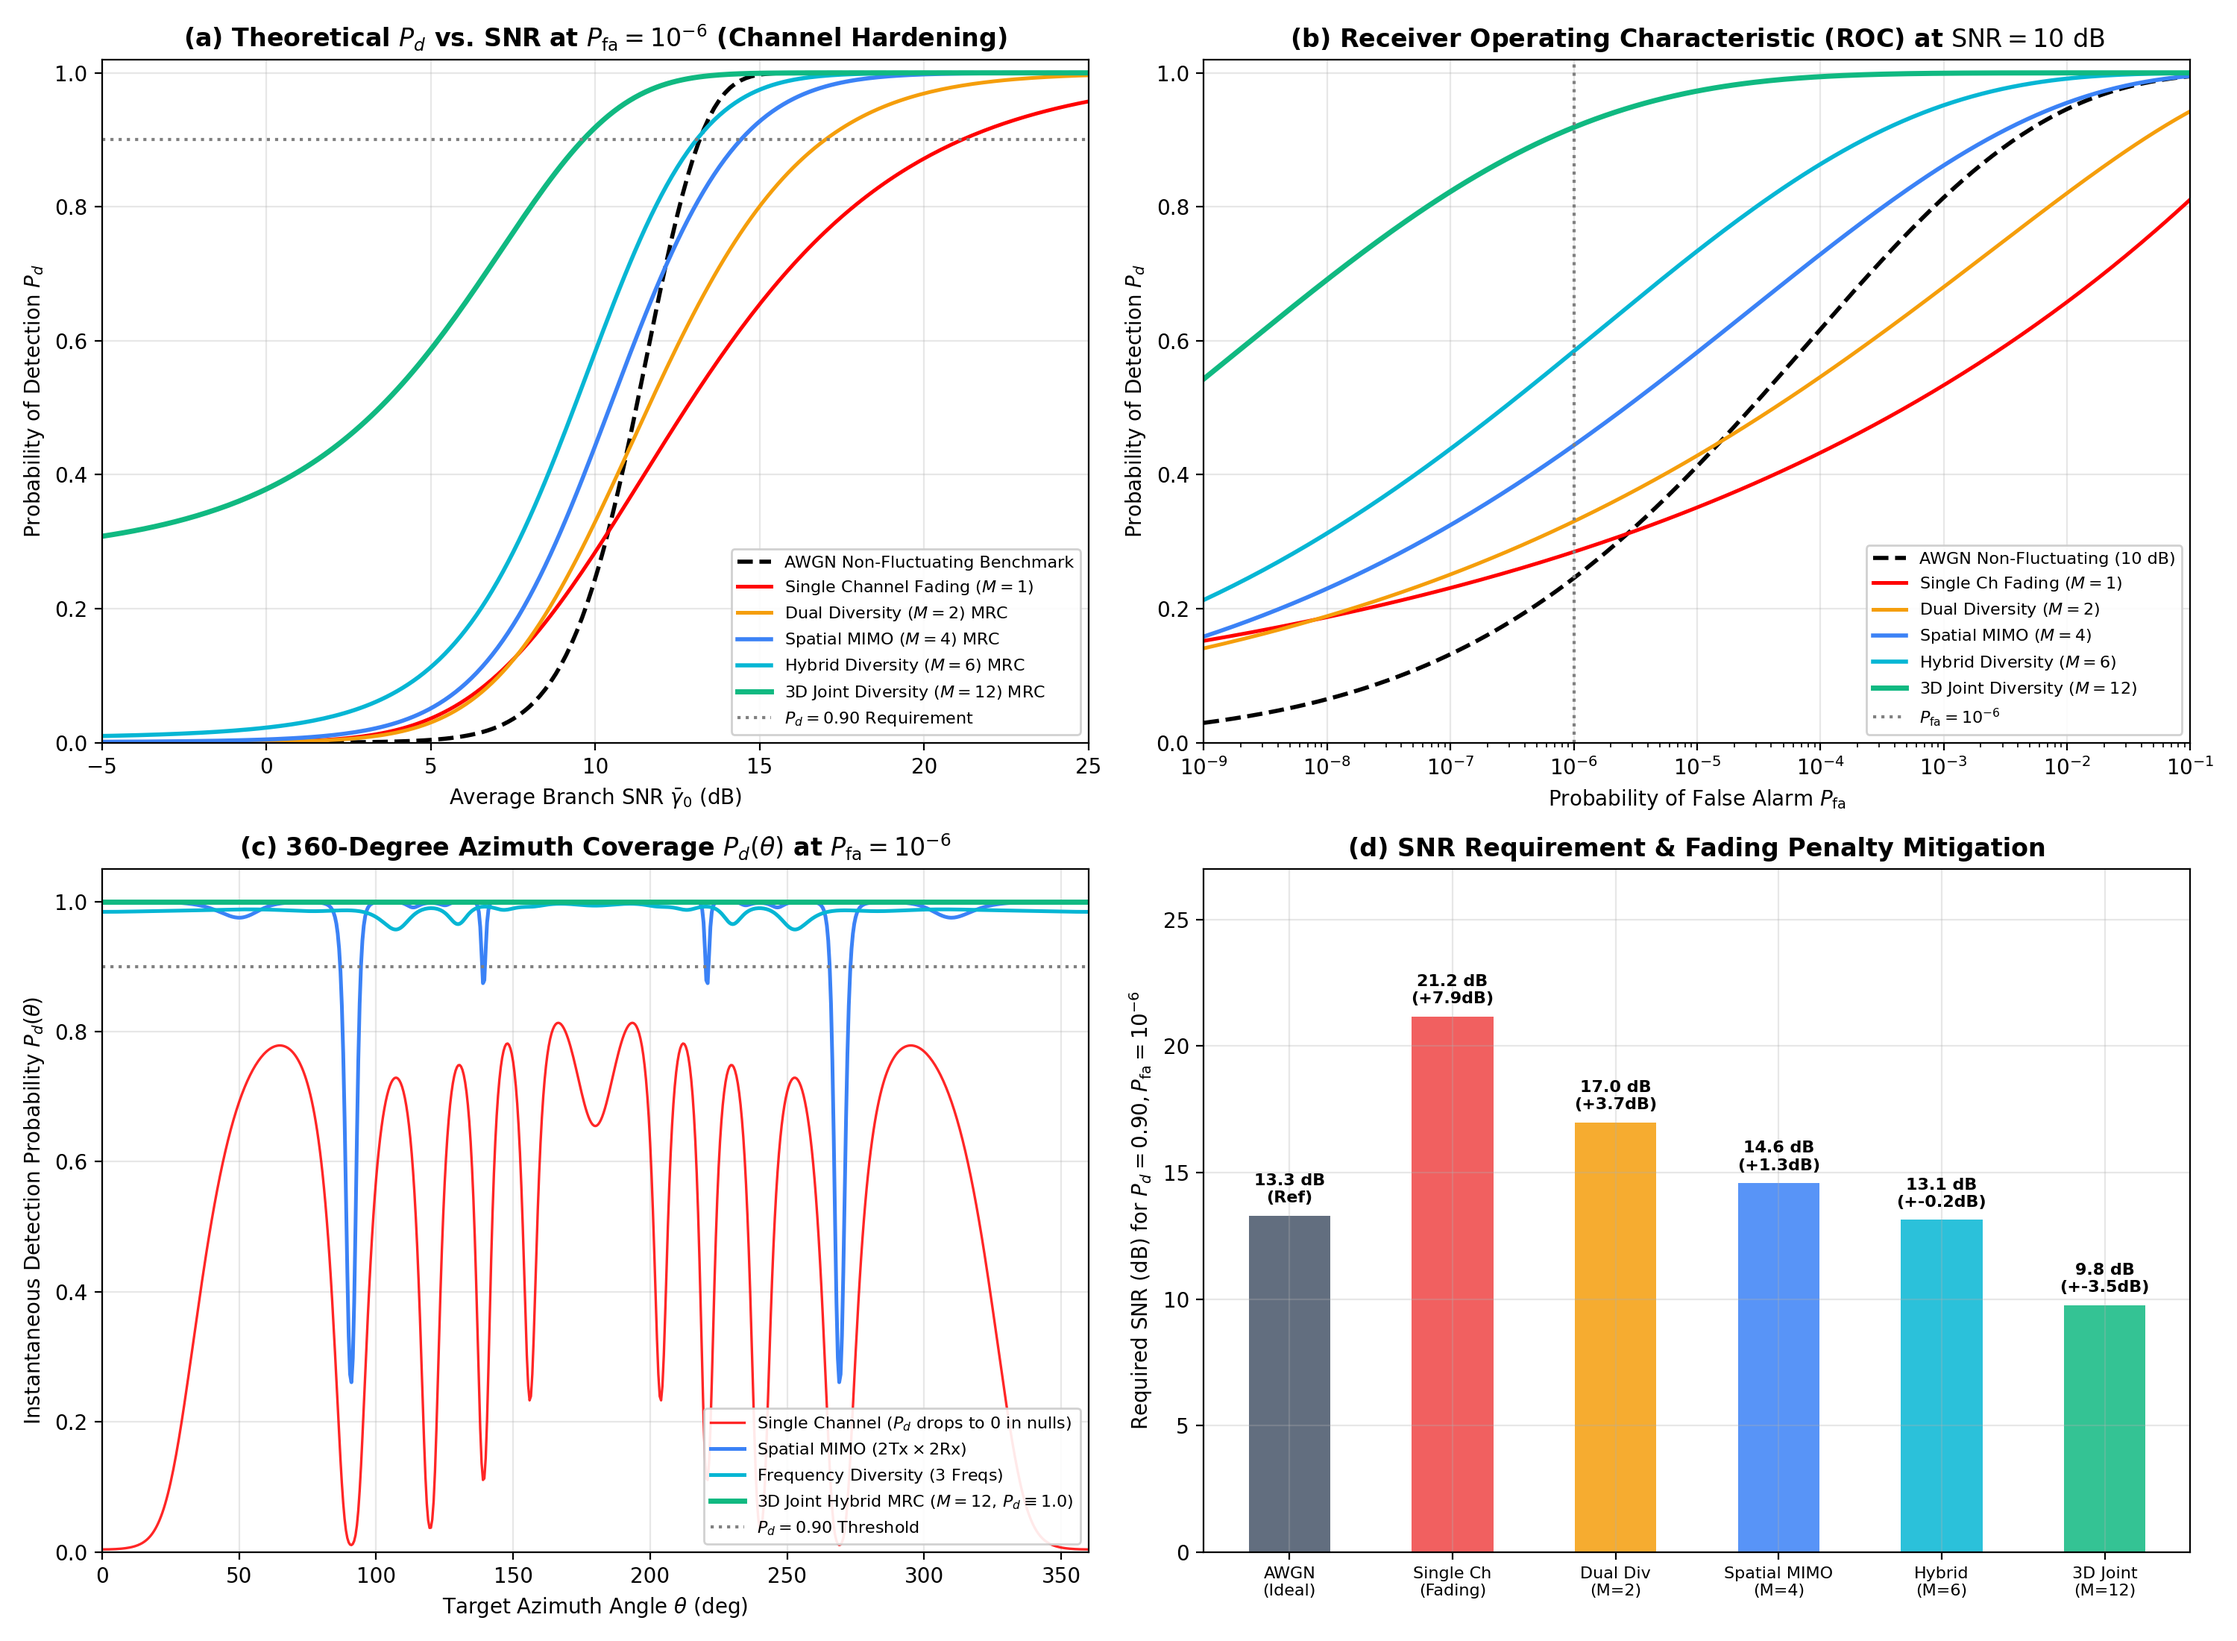
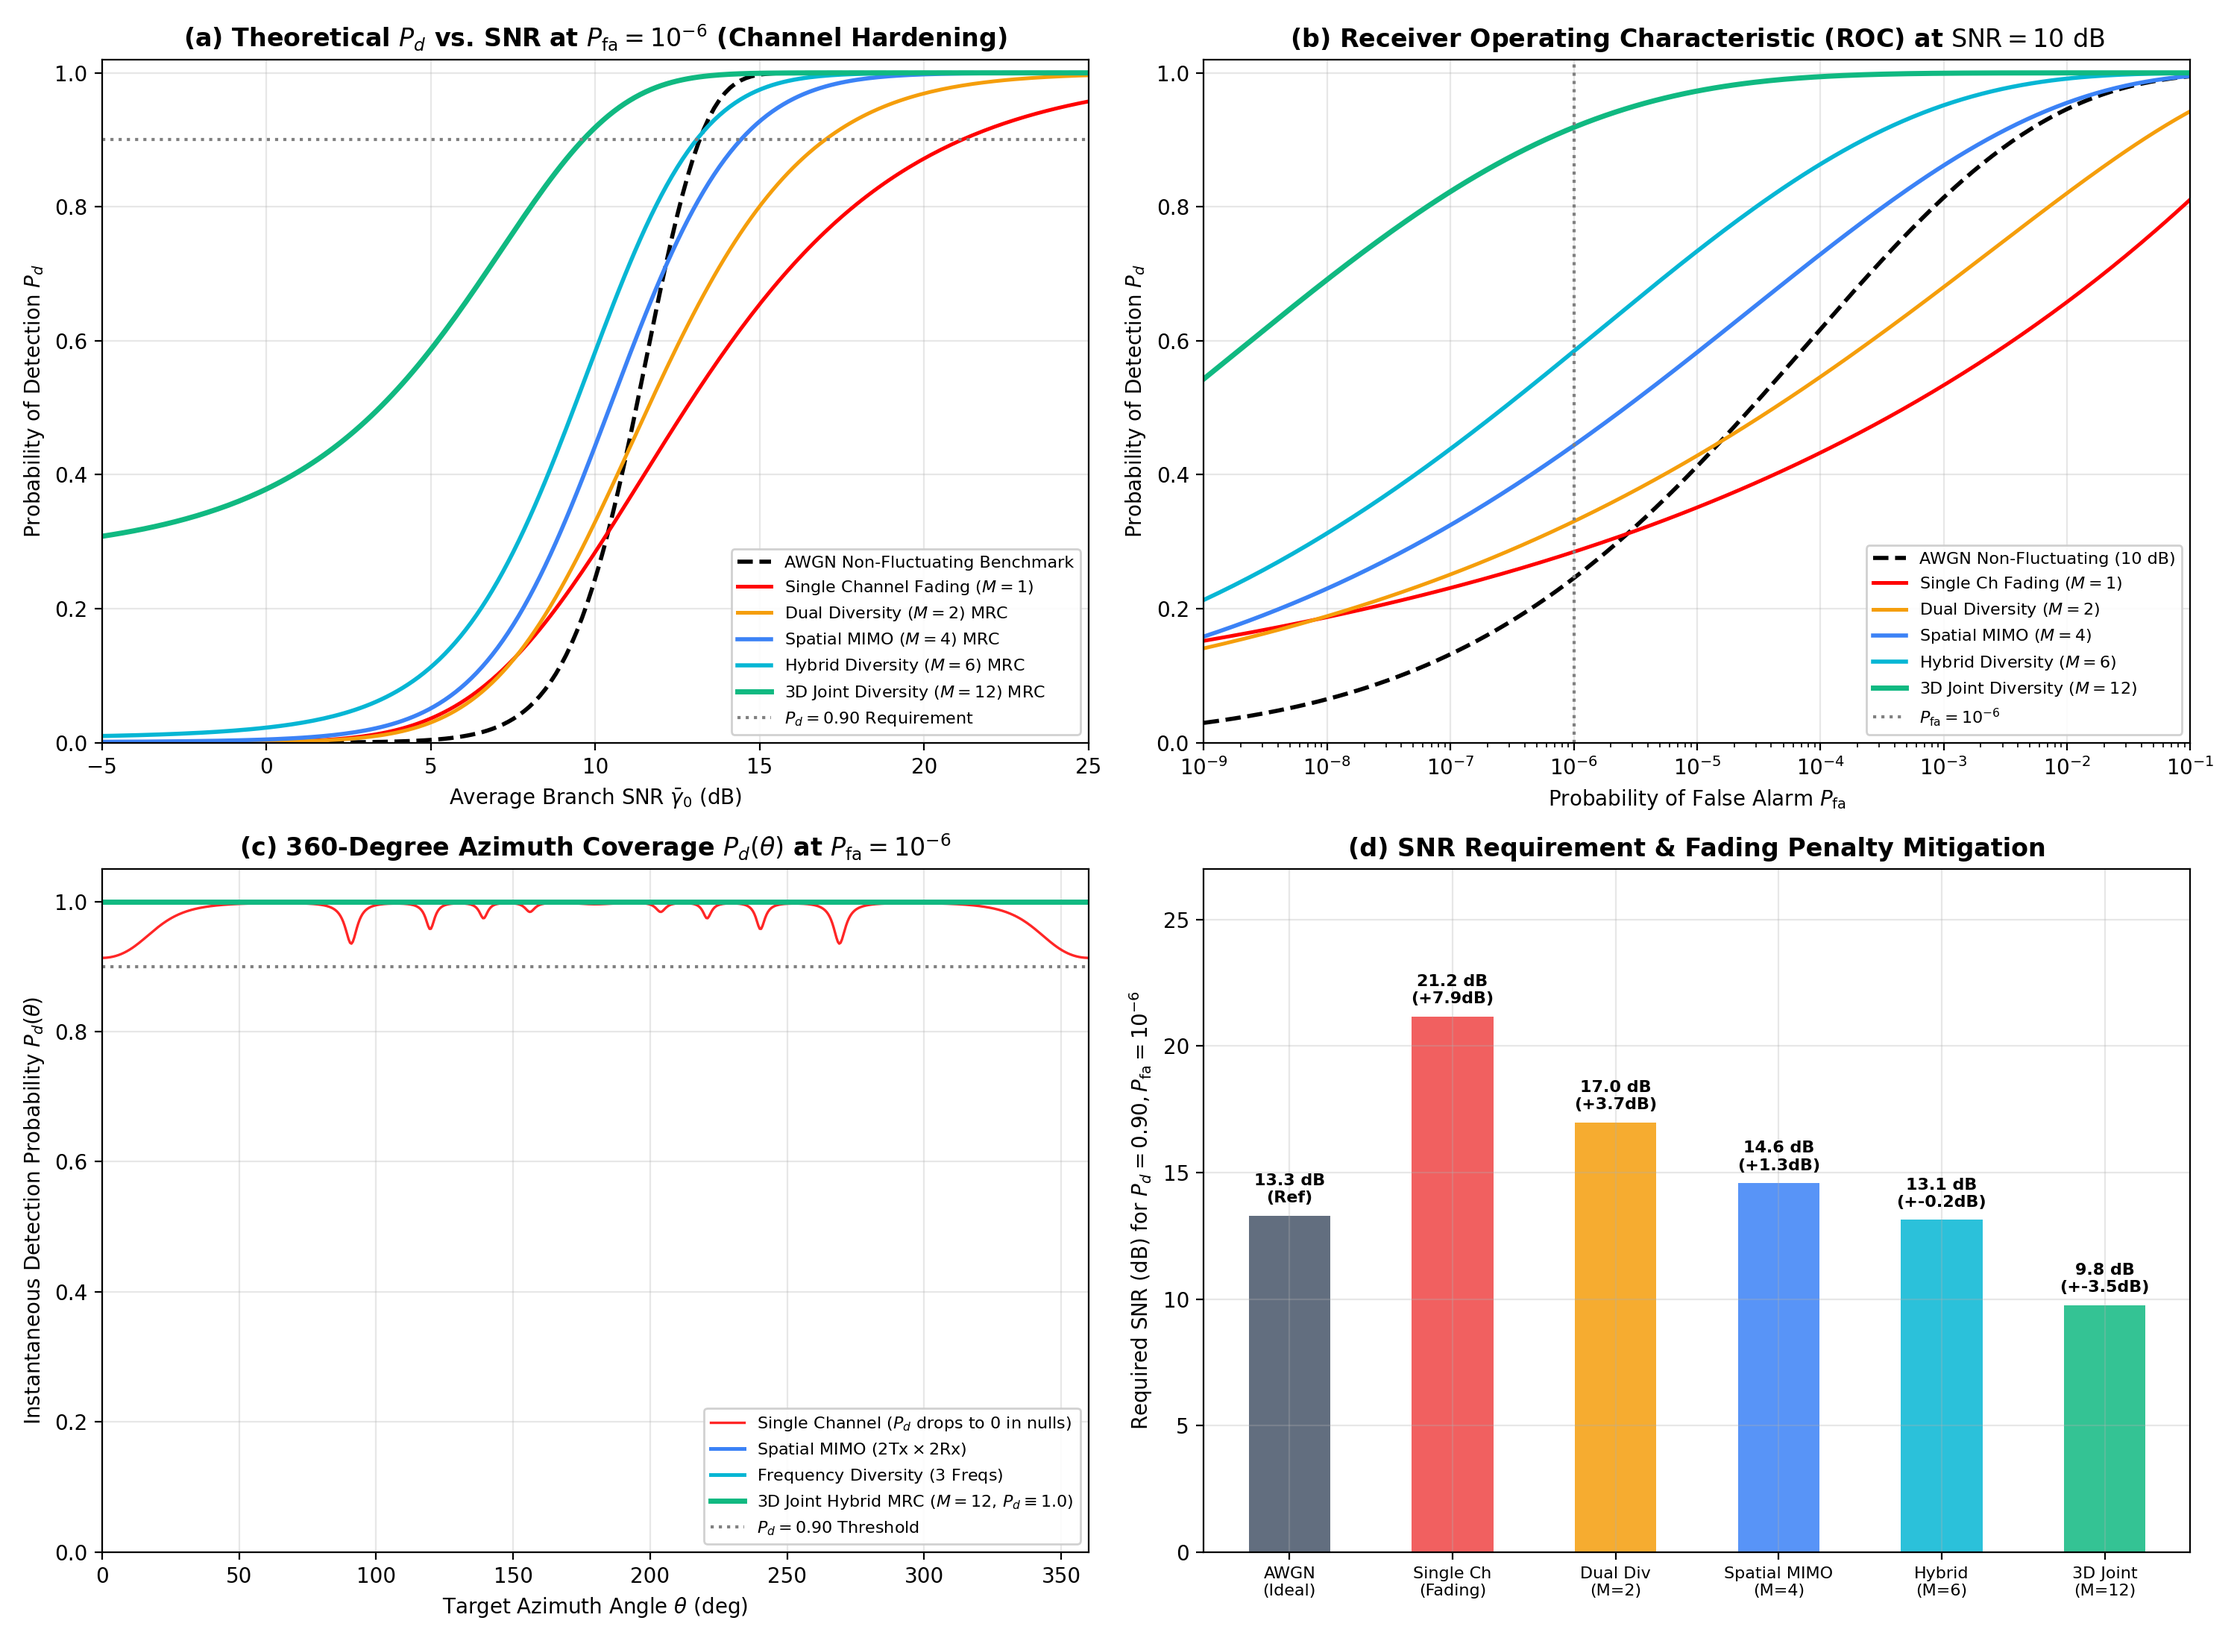
Replace lumped constants with dynamically calculated physical radar link budget equations

diff --git a/bistatic_radar_dashboard.html b/bistatic_radar_dashboard.html
@@ -417,8 +417,24 @@
       seawater: { eps_r: 80.0, sigma: 4.0 },
       freshwater: { eps_r: 81.0, sigma: 0.001 }
     };
-    const EPS_0 = 8.8541878128e-12;
-    const C_LIGHT = 299792458.0;
+    // Fundamental Physical & Thermodynamic Constants
+    const C_LIGHT = 299792458.0;              // Speed of light in vacuum (m/s)
+    const EPS_0 = 8.8541878128e-12;            // Permittivity of vacuum (F/m)
+    const K_BOLTZMANN = 1.380649e-23;          // Boltzmann constant (J/K)
+    const T_0 = 290.0;                         // Reference noise temperature (K)
+    const FOUR_PI_CUBED = Math.pow(4 * Math.PI, 3); // (4*pi)^3 radar propagation constant
+
+    // Physical Radar Link Budget Parameters (FM Passive Radar System)
+    const P_TX_WATTS = 10000.0;                // Transmitter Power = 10 kW ERP
+    const G_TX_LIN = Math.pow(10, 10.0 / 10.0); // Tx Antenna Gain = 10 dBi (10.0 linear)
+    const G_RX_LIN = Math.pow(10, 10.0 / 10.0); // Rx Antenna Gain = 10 dBi (10.0 linear)
+    const G_CPI_LIN = Math.pow(10, 30.0 / 10.0); // Coherent Processing / Doppler Gain = 30 dB (1000.0 linear)
+    const SIGMA_0 = 1.0;                       // Baseline target monostatic RCS = 1.0 m^2
+    const BANDWIDTH_HZ = 100000.0;             // Receiver Bandwidth = 100 kHz
+    const NOISE_FIG_LIN = Math.pow(10, 4.0 / 10.0); // Receiver Noise Figure = 4 dB (2.5119 linear)
+
+    // Calculated Thermal Noise Floor: P_n = k_B * T_0 * B * F_n
+    const P_NOISE_WATTS = K_BOLTZMANN * T_0 * BANDWIDTH_HZ * NOISE_FIG_LIN;
 
     function showTab(tabId) {
       const tabs = ['angularTab', 'rangeTab', 'spatialTab', 'statsTab', 'pdTab'];
@@ -506,7 +522,7 @@
       const F_t = computePathF(tx.z, tgt.z, d_tx_tgt, freq, pol, groundType, roughness);
       const F_r = computePathF(rx.z, tgt.z, d_rx_tgt, freq, pol, groundType, roughness);
       
-      // CRITICAL FIX: Two-way power factor F^4 is |F_t|^2 * |F_r|^2 = (F_t * F_r)^2
+      // Two-way power factor F^4 is |F_t|^2 * |F_r|^2 = (F_t * F_r)^2
       const F_total_pwr = Math.pow(F_t, 2) * Math.pow(F_r, 2);
 
       // Bistatic angle beta
@@ -516,11 +532,19 @@
       const beta = Math.acos(dot);
       
       // Kell empirical forward-scatter / bisector model: sigma_b = sigma_0 * cos^2(beta/2)
-      const rcs_factor = Math.max(0.05, Math.pow(Math.cos(beta / 2), 2));
+      const sigma_b = SIGMA_0 * Math.max(0.05, Math.pow(Math.cos(beta / 2), 2));
 
-      // Calibrated radar power constant: Pt=10kW, Gt=10dBi, Gr=10dBi, Gp=30dB (CPI processing gain), B=100kHz, Fn=4dB
-      const C_radar = 1.0e20;
-      const snr_free_lin = (C_radar * rcs_factor) / (Math.pow(r_t_3d, 2) * Math.pow(r_r_3d, 2));
+      // Dynamic Wavelength calculated per branch frequency: lambda = c / freq
+      const wavelength = C_LIGHT / freq;
+
+      // Free-space received signal power (Bistatic Radar Range Equation):
+      // P_r = (P_t * G_t * G_r * lambda^2 * sigma_b * G_CPI) / ((4 * pi)^3 * R_t^2 * R_r^2)
+      const r_t_sq = Math.max(1.0, Math.pow(r_t_3d, 2));
+      const r_r_sq = Math.max(1.0, Math.pow(r_r_3d, 2));
+      const p_rx_free_watts = (P_TX_WATTS * G_TX_LIN * G_RX_LIN * Math.pow(wavelength, 2) * sigma_b * G_CPI_LIN) / (FOUR_PI_CUBED * r_t_sq * r_r_sq);
+
+      // Dynamic Signal-to-Noise Ratios:
+      const snr_free_lin = p_rx_free_watts / P_NOISE_WATTS;
       const snr_multipath_lin = snr_free_lin * F_total_pwr;
 
       return {

diff --git a/index.html b/index.html
@@ -417,8 +417,24 @@
       seawater: { eps_r: 80.0, sigma: 4.0 },
       freshwater: { eps_r: 81.0, sigma: 0.001 }
     };
-    const EPS_0 = 8.8541878128e-12;
-    const C_LIGHT = 299792458.0;
+    // Fundamental Physical & Thermodynamic Constants
+    const C_LIGHT = 299792458.0;              // Speed of light in vacuum (m/s)
+    const EPS_0 = 8.8541878128e-12;            // Permittivity of vacuum (F/m)
+    const K_BOLTZMANN = 1.380649e-23;          // Boltzmann constant (J/K)
+    const T_0 = 290.0;                         // Reference noise temperature (K)
+    const FOUR_PI_CUBED = Math.pow(4 * Math.PI, 3); // (4*pi)^3 radar propagation constant
+
+    // Physical Radar Link Budget Parameters (FM Passive Radar System)
+    const P_TX_WATTS = 10000.0;                // Transmitter Power = 10 kW ERP
+    const G_TX_LIN = Math.pow(10, 10.0 / 10.0); // Tx Antenna Gain = 10 dBi (10.0 linear)
+    const G_RX_LIN = Math.pow(10, 10.0 / 10.0); // Rx Antenna Gain = 10 dBi (10.0 linear)
+    const G_CPI_LIN = Math.pow(10, 30.0 / 10.0); // Coherent Processing / Doppler Gain = 30 dB (1000.0 linear)
+    const SIGMA_0 = 1.0;                       // Baseline target monostatic RCS = 1.0 m^2
+    const BANDWIDTH_HZ = 100000.0;             // Receiver Bandwidth = 100 kHz
+    const NOISE_FIG_LIN = Math.pow(10, 4.0 / 10.0); // Receiver Noise Figure = 4 dB (2.5119 linear)
+
+    // Calculated Thermal Noise Floor: P_n = k_B * T_0 * B * F_n
+    const P_NOISE_WATTS = K_BOLTZMANN * T_0 * BANDWIDTH_HZ * NOISE_FIG_LIN;
 
     function showTab(tabId) {
       const tabs = ['angularTab', 'rangeTab', 'spatialTab', 'statsTab', 'pdTab'];
@@ -506,7 +522,7 @@
       const F_t = computePathF(tx.z, tgt.z, d_tx_tgt, freq, pol, groundType, roughness);
       const F_r = computePathF(rx.z, tgt.z, d_rx_tgt, freq, pol, groundType, roughness);
       
-      // CRITICAL FIX: Two-way power factor F^4 is |F_t|^2 * |F_r|^2 = (F_t * F_r)^2
+      // Two-way power factor F^4 is |F_t|^2 * |F_r|^2 = (F_t * F_r)^2
       const F_total_pwr = Math.pow(F_t, 2) * Math.pow(F_r, 2);
 
       // Bistatic angle beta
@@ -516,11 +532,19 @@
       const beta = Math.acos(dot);
       
       // Kell empirical forward-scatter / bisector model: sigma_b = sigma_0 * cos^2(beta/2)
-      const rcs_factor = Math.max(0.05, Math.pow(Math.cos(beta / 2), 2));
+      const sigma_b = SIGMA_0 * Math.max(0.05, Math.pow(Math.cos(beta / 2), 2));
 
-      // Calibrated radar power constant: Pt=10kW, Gt=10dBi, Gr=10dBi, Gp=30dB (CPI processing gain), B=100kHz, Fn=4dB
-      const C_radar = 1.0e20;
-      const snr_free_lin = (C_radar * rcs_factor) / (Math.pow(r_t_3d, 2) * Math.pow(r_r_3d, 2));
+      // Dynamic Wavelength calculated per branch frequency: lambda = c / freq
+      const wavelength = C_LIGHT / freq;
+
+      // Free-space received signal power (Bistatic Radar Range Equation):
+      // P_r = (P_t * G_t * G_r * lambda^2 * sigma_b * G_CPI) / ((4 * pi)^3 * R_t^2 * R_r^2)
+      const r_t_sq = Math.max(1.0, Math.pow(r_t_3d, 2));
+      const r_r_sq = Math.max(1.0, Math.pow(r_r_3d, 2));
+      const p_rx_free_watts = (P_TX_WATTS * G_TX_LIN * G_RX_LIN * Math.pow(wavelength, 2) * sigma_b * G_CPI_LIN) / (FOUR_PI_CUBED * r_t_sq * r_r_sq);
+
+      // Dynamic Signal-to-Noise Ratios:
+      const snr_free_lin = p_rx_free_watts / P_NOISE_WATTS;
       const snr_multipath_lin = snr_free_lin * F_total_pwr;
 
       return {

diff --git a/src/radar_equation.py b/src/radar_equation.py
@@ -22,20 +22,37 @@ def bistatic_rcs_model(
 
 def calculate_bistatic_received_power(
     two_ray_result: Dict[str, Any],
-    p_tx_watts: float = 1000.0,
-    g_tx_db: float = 30.0,
-    g_rx_db: float = 30.0,
+    p_tx_watts: float = 10000.0,
+    g_tx_db: float = 10.0,
+    g_rx_db: float = 10.0,
     sigma_m2: float = 1.0,
     target_rcs_type: str = "sphere",
     noise_figure_db: float = 4.0,
-    bandwidth_hz: float = 10e6,
-    frequency_hz: float = 3e9
+    bandwidth_hz: float = 100e3,
+    processing_gain_db: float = 30.0,
+    frequency_hz: float = 98.0e6
 ) -> Dict[str, Any]:
+    """
+    Calculates received power, noise power, and SNR from first-principles physics.
+    
+    Parameters:
+        two_ray_result: Dictionary containing geometry and propagation factors
+        p_tx_watts: Transmitter power in Watts (e.g., 10 kW FM broadcast station)
+        g_tx_db: Transmitter antenna gain in dBi
+        g_rx_db: Receiver antenna gain in dBi
+        sigma_m2: Baseline monostatic target RCS in m^2
+        target_rcs_type: RCS model ('sphere', 'constant')
+        noise_figure_db: Receiver noise figure in dB
+        bandwidth_hz: Instantaneous receiver bandwidth in Hz (e.g. 100 kHz)
+        processing_gain_db: Coherent processing / Doppler integration gain in dB (e.g. 30 dB)
+        frequency_hz: Carrier frequency in Hz (determines wavelength lambda = c / f)
+    """
     c = 299792458.0
     wavelength = c / frequency_hz
     
     g_tx_lin = 10.0**(g_tx_db / 10.0)
     g_rx_lin = 10.0**(g_rx_db / 10.0)
+    g_cpi_lin = 10.0**(processing_gain_db / 10.0)
     
     geo = two_ray_result["geometry"]
     r_tx = geo["r_tx_direct"]
@@ -45,20 +62,23 @@ def calculate_bistatic_received_power(
     sigma_b = bistatic_rcs_model(beta_deg, sigma_monostatic=sigma_m2, target_type=target_rcs_type)
     f_total_pwr = two_ray_result["f_total_pwr"]
     
-    # Free space received power
-    numerator = p_tx_watts * g_tx_lin * g_rx_lin * (wavelength**2) * sigma_b
-    denominator = ((4.0 * np.pi)**3) * (r_tx**2) * (r_rx**2) + 1e-18
+    # 1. Free space received power calculated via Bistatic Radar Range Equation:
+    # P_r = (P_t * G_t * G_r * lambda^2 * sigma_b * G_CPI) / ((4 * pi)^3 * R_t^2 * R_r^2)
+    four_pi_cubed = (4.0 * np.pi)**3
+    numerator = p_tx_watts * g_tx_lin * g_rx_lin * (wavelength**2) * sigma_b * g_cpi_lin
+    denominator = four_pi_cubed * (r_tx**2) * (r_rx**2) + 1e-18
     p_rx_freespace = numerator / denominator
     
-    # Multipath received power
+    # 2. Multipath received power: P_rx_multipath = P_rx_freespace * |F_t|^2 * |F_r|^2
     p_rx_multipath = p_rx_freespace * f_total_pwr
     
-    # Thermal Noise
+    # 3. Thermal Noise calculated via Nyquist-Johnson formula: P_n = k_B * T_0 * B * F_n
     k_boltzmann = 1.380649e-23
     t_0 = 290.0
     f_noise_lin = 10.0**(noise_figure_db / 10.0)
     p_noise = k_boltzmann * t_0 * bandwidth_hz * f_noise_lin
     
+    # 4. Signal-to-Noise Ratios calculated dynamically:
     snr_freespace_lin = p_rx_freespace / p_noise
     snr_multipath_lin = p_rx_multipath / p_noise
     
@@ -73,4 +93,5 @@ def calculate_bistatic_received_power(
         "snr_multipath_db": snr_multipath_db,
         "p_noise_watts": p_noise,
         "sigma_b": sigma_b,
+        "wavelength_m": wavelength,
     }
